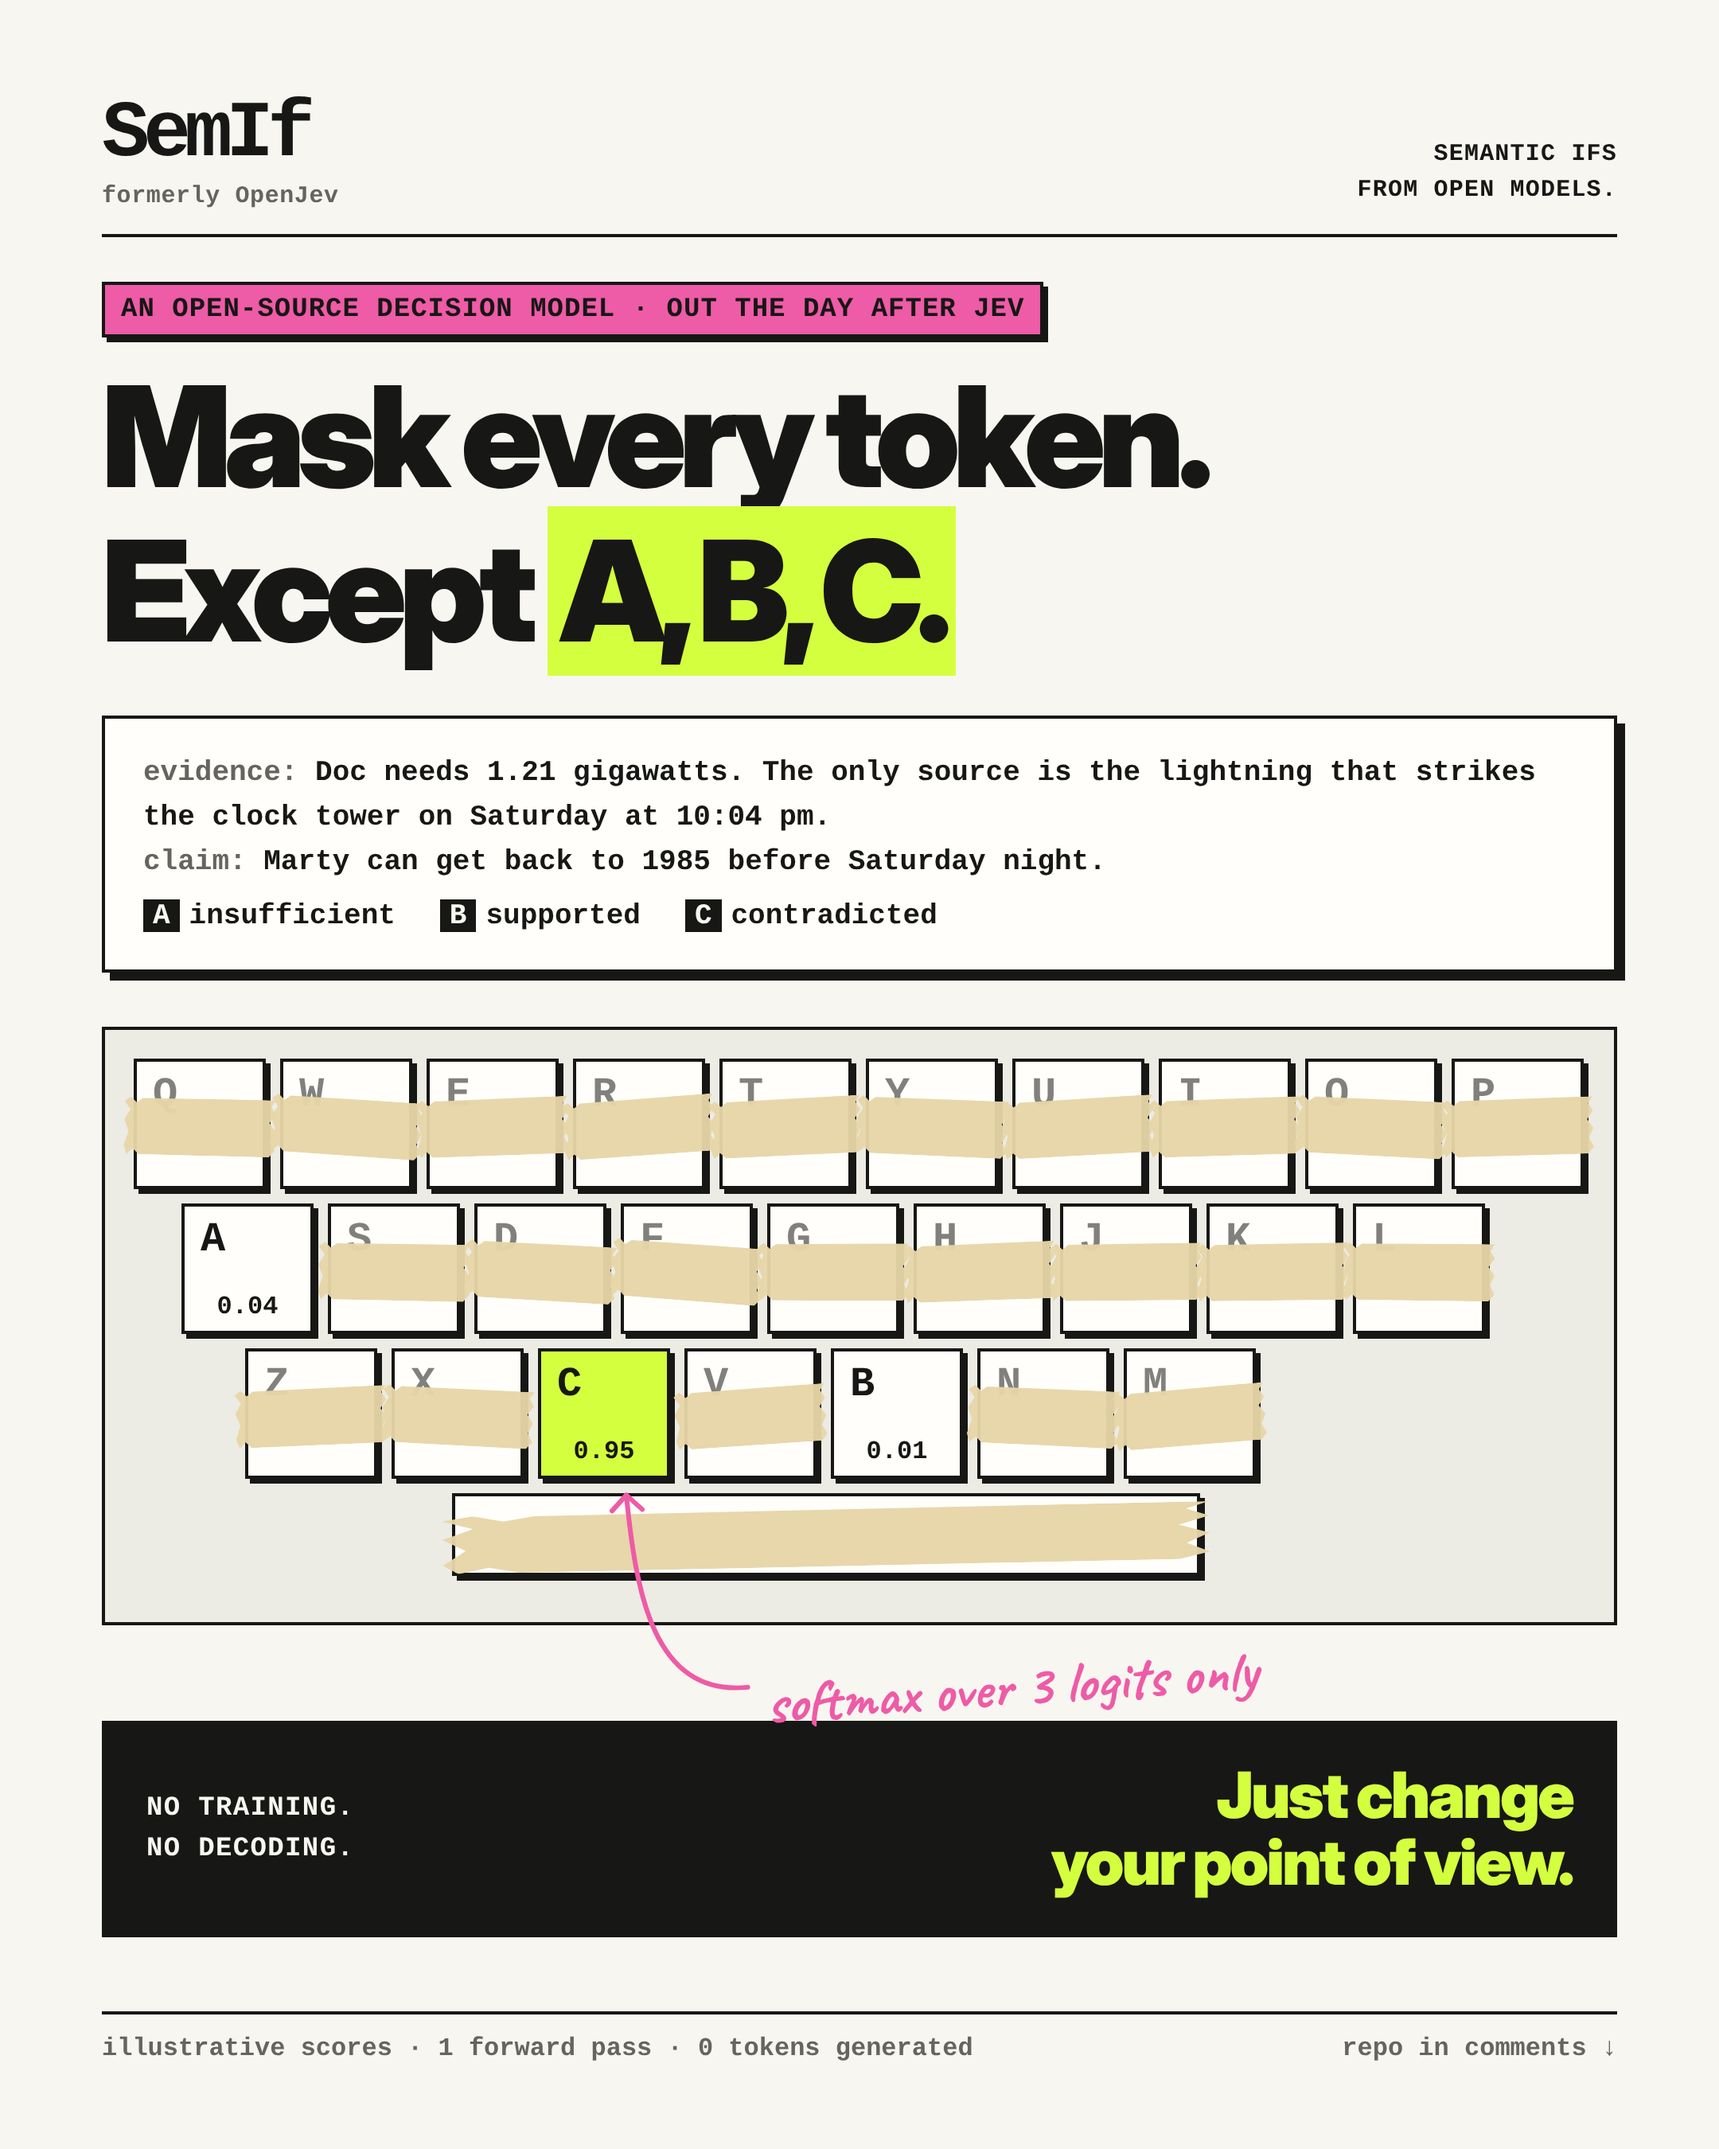
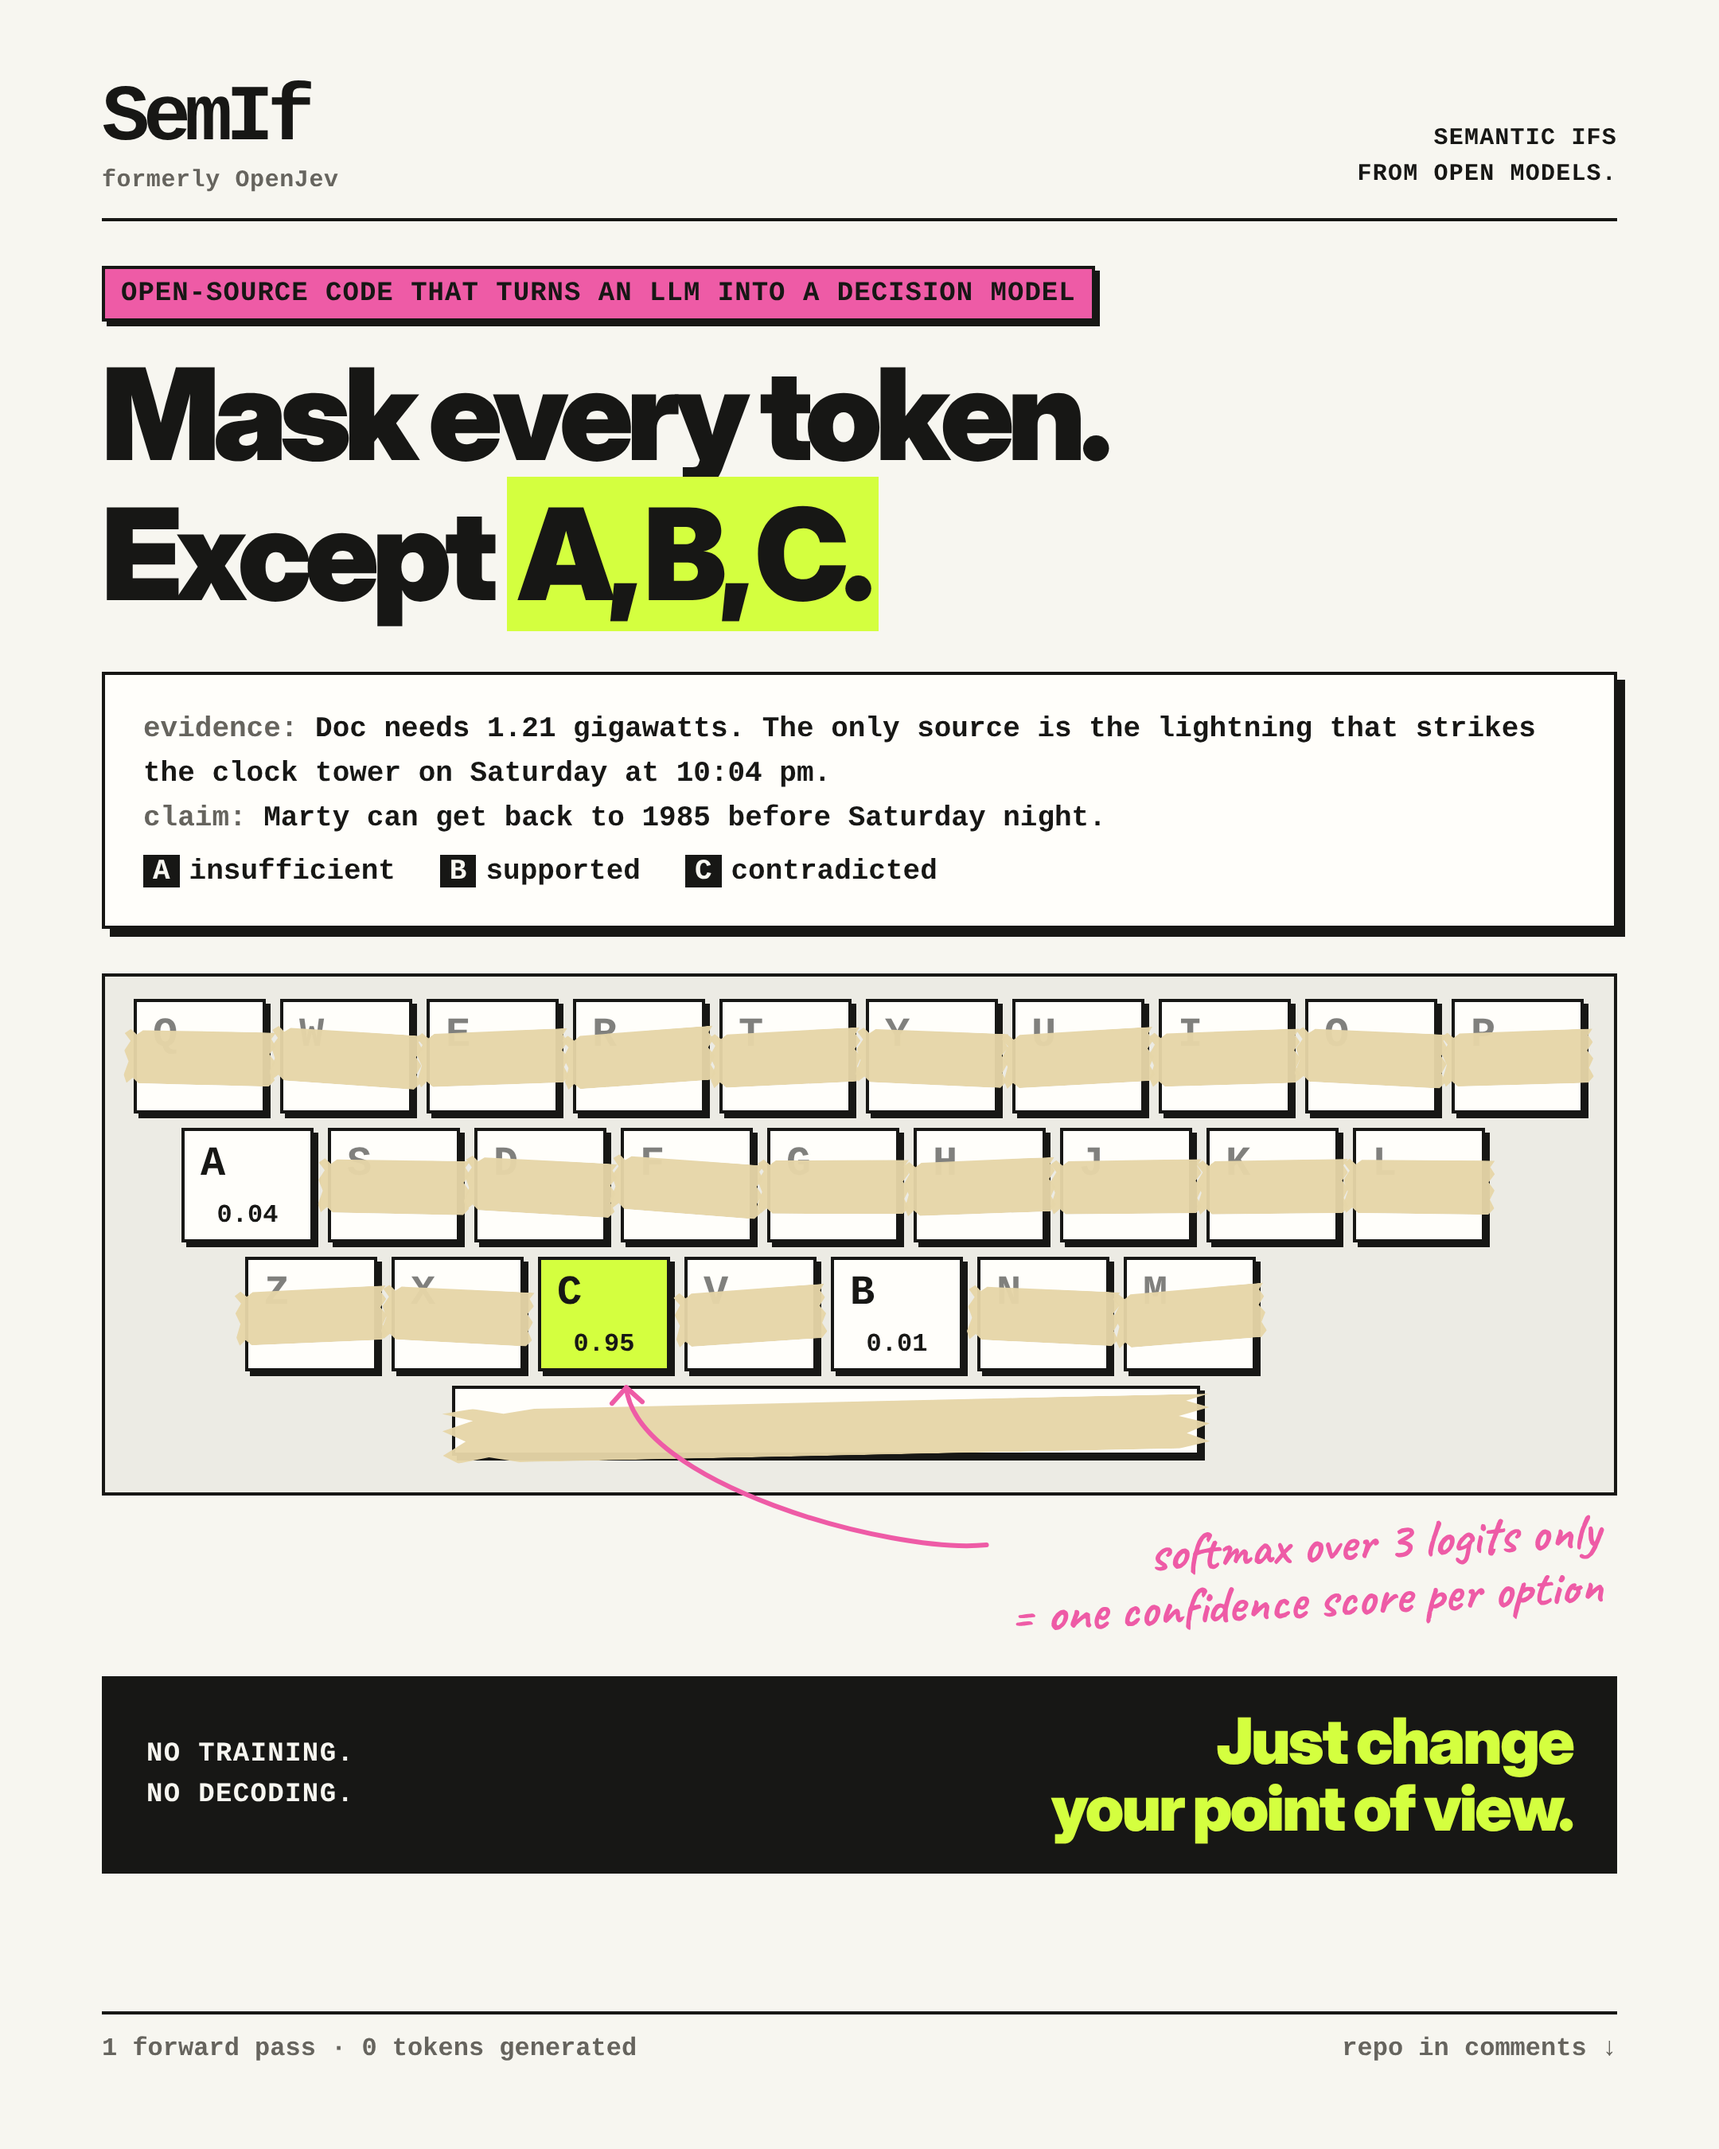
chore(linkedin): clarify SemIf tagline, confidence note, layout
Claude-Session: https://claude.ai/code/session_01MTwVEbBa7ZThnZ6UTC9WgS

diff --git a/linkedin/semif/source.html b/linkedin/semif/source.html
@@ -7,32 +7,32 @@
 :root{--ink:#171715;--paper:#f7f6f0;--panel:#fffefa;--lime:#d4ff3f;--pink:#ee5ba6;--muted:#66645e;--tape:#e6d6a8;}
 *{box-sizing:border-box;margin:0;padding:0}
 html,body{width:1080px;height:1350px;background:var(--paper);overflow:hidden}
-body{color:var(--ink);position:relative;padding:60px 64px 0;font-family:"Liberation Mono",ui-monospace,monospace}
+body{color:var(--ink);position:relative;padding:50px 64px 0;font-family:"Liberation Mono",ui-monospace,monospace}
 .mast{display:flex;justify-content:space-between;align-items:flex-end;padding-bottom:16px;border-bottom:2px solid var(--ink)}
 .brand{font-size:50px;font-weight:700;letter-spacing:-.08em;line-height:1}
 .brand small{display:block;font-size:15px;letter-spacing:.02em;font-weight:700;color:var(--muted);margin-top:6px}
 .tagline{font-size:15px;font-weight:700;text-transform:uppercase;letter-spacing:.04em;text-align:right;line-height:1.5}
-h1{font:900 88px/1.1 "Inter Display",Inter,Arial,sans-serif;letter-spacing:-.055em;margin-top:14px}
+h1{font:900 80px/1.1 "Inter Display",Inter,Arial,sans-serif;letter-spacing:-.055em;margin-top:14px}
 .kick{margin-top:28px;display:inline-block;background:var(--pink);color:var(--ink);font-size:17px;font-weight:700;text-transform:uppercase;letter-spacing:.03em;padding:6px 10px;box-shadow:3px 3px 0 var(--ink);border:2px solid var(--ink)}
 h1 mark{background:var(--lime);color:var(--ink);padding:0 .08em}
 .note{margin-top:30px;background:var(--panel);border:2px solid var(--ink);box-shadow:5px 5px 0 var(--ink);padding:20px 24px;font-size:18px;line-height:1.55;font-weight:700}
 .note .l{color:var(--muted)}
 .note .opts{margin-top:6px;display:flex;gap:28px}
 .note .opts b{background:var(--ink);color:var(--paper);padding:0 6px;margin-right:6px}
-.kb{position:relative;margin-top:34px;border:2px solid var(--ink);background:#ecebe4;padding:18px 18px 20px}
+.kb{position:relative;margin-top:28px;border:2px solid var(--ink);background:#ecebe4;padding:14px 18px 14px}
 .row{display:flex;gap:9px;margin-bottom:9px}
 .r2{padding-left:30px}.r3{padding-left:70px}
-.key{position:relative;width:83px;height:82px;background:var(--panel);border:2px solid var(--ink);box-shadow:3px 3px 0 var(--ink);font-size:26px;font-weight:700;padding:6px 10px;color:rgba(23,23,21,.55)}
-.space{width:470px;height:52px;margin-left:200px;margin-bottom:0}
-.tape::after{content:"";position:absolute;left:-8px;right:-8px;top:23px;height:36px;background:var(--tape);opacity:.96;transform:rotate(var(--r));
+.key{position:relative;width:83px;height:72px;background:var(--panel);border:2px solid var(--ink);box-shadow:3px 3px 0 var(--ink);font-size:26px;font-weight:700;padding:6px 10px;color:rgba(23,23,21,.55)}
+.space{width:470px;height:44px;margin-left:200px;margin-bottom:0}
+.tape::after{content:"";position:absolute;left:-8px;right:-8px;top:18px;height:34px;background:var(--tape);opacity:.96;transform:rotate(var(--r));
   clip-path:polygon(0 8%,4% 0,8% 10%,12% 2%,100% 0,97% 12%,100% 25%,96% 40%,100% 55%,97% 72%,100% 88%,96% 100%,10% 100%,6% 90%,2% 100%,0 85%,3% 60%,0 40%,4% 22%);
   box-shadow:0 1px 3px rgba(0,0,0,.2)}
 .space.tape::after{top:8px}
 .open{color:var(--ink)}
 .open.win{background:var(--lime)}
 .p{position:absolute;left:0;right:0;bottom:6px;text-align:center;font-size:16px;font-weight:700}
-.hand{position:absolute;font-family:Caveat,cursive;font-weight:700;font-size:36px;color:var(--pink);transform:rotate(-4deg);white-space:nowrap}
-.verdict{margin-top:60px;background:var(--ink);color:var(--paper);padding:26px 28px;display:flex;justify-content:space-between;align-items:center}
+.hand{display:block;width:fit-content;margin:14px 10px 0 auto;font-family:Caveat,cursive;font-weight:700;font-size:33px;line-height:1.05;color:var(--pink);transform:rotate(-3deg);text-align:right}
+.verdict{margin-top:30px;background:var(--ink);color:var(--paper);padding:20px 28px;display:flex;justify-content:space-between;align-items:center}
 .verdict span{font-size:17px;font-weight:700;text-transform:uppercase;letter-spacing:.04em;line-height:1.5}
 .verdict strong{font:900 40px/1.05 "Inter Display",Inter,Arial,sans-serif;letter-spacing:-.035em;color:var(--lime);text-align:right}
 .foot{position:absolute;left:64px;right:64px;bottom:54px;display:flex;justify-content:space-between;font-size:16px;font-weight:700;color:var(--muted);border-top:2px solid var(--ink);padding-top:12px}
@@ -42,7 +42,7 @@ h1 mark{background:var(--lime);color:var(--ink);padding:0 .08em}
   <div class="tagline">Semantic ifs<br>from open models.</div>
 </div>
 
-<div class="kick">An open-source decision model · out the day after Jev</div>
+<div class="kick">Open-source code that turns an LLM into a decision model</div>
 <h1>Mask every token.<br>Except <mark>A, B, C.</mark></h1>
 
 <div class="note">
@@ -52,14 +52,14 @@ h1 mark{background:var(--lime);color:var(--ink);padding:0 .08em}
 </div>
 
 <div class="kb" id="kb"></div>
-<div class="hand" id="hand">softmax over 3 logits only</div>
+<div class="hand" id="hand">softmax over 3 logits only<br>= one confidence score per option</div>
 
 <div class="verdict">
   <span>No training.<br>No decoding.</span>
   <strong>Just change<br>your point of view.</strong>
 </div>
 
-<div class="foot"><span>illustrative scores · 1 forward pass · 0 tokens generated</span><span>repo in comments ↓</span></div>
+<div class="foot"><span>1 forward pass · 0 tokens generated</span><span>repo in comments ↓</span></div>
 <script>
 const rows=["QWERTYUIOP","ASDFGHJKL","ZXCVBNM"];
 const prob={A:"0.04",B:"0.01",C:"0.95"};
@@ -76,11 +76,10 @@ const sp=document.createElement('div');sp.className='row';const s=document.creat
 s.className='key space tape';s.style.setProperty('--r','-1.2deg');sp.appendChild(s);kb.appendChild(sp);
 document.fonts.ready.then(()=>{
   const b=document.querySelector('.win').getBoundingClientRect(), kbr=kb.getBoundingClientRect(), h=document.getElementById('hand');
-  h.style.left=(b.right+60)+'px'; h.style.top=(kbr.bottom+16)+'px';
-  const r=h.getBoundingClientRect();
+    const r=h.getBoundingClientRect();
   const svg=document.createElementNS('http://www.w3.org/2000/svg','svg');
   svg.setAttribute('style','position:absolute;left:0;top:0;width:1080px;height:1350px;overflow:visible;pointer-events:none');
-  const sx=r.left-10, sy=r.top+r.height/2, ex=b.left+b.width/2+14, ey=b.bottom+10;
+  const sx=r.left-12, sy=r.top+r.height*0.3, ex=b.left+b.width/2+14, ey=b.bottom+10;
   svg.innerHTML=`<path d="M${sx},${sy} C${sx-60},${sy+6} ${ex+6},${ey+60} ${ex},${ey}" stroke="#ee5ba6" stroke-width="3" fill="none" stroke-linecap="round"/>
   <path d="M${ex-9},${ey+10} L${ex},${ey} L${ex+10},${ey+9}" stroke="#ee5ba6" stroke-width="3" fill="none" stroke-linecap="round" stroke-linejoin="round"/>`;
   document.body.appendChild(svg);});
